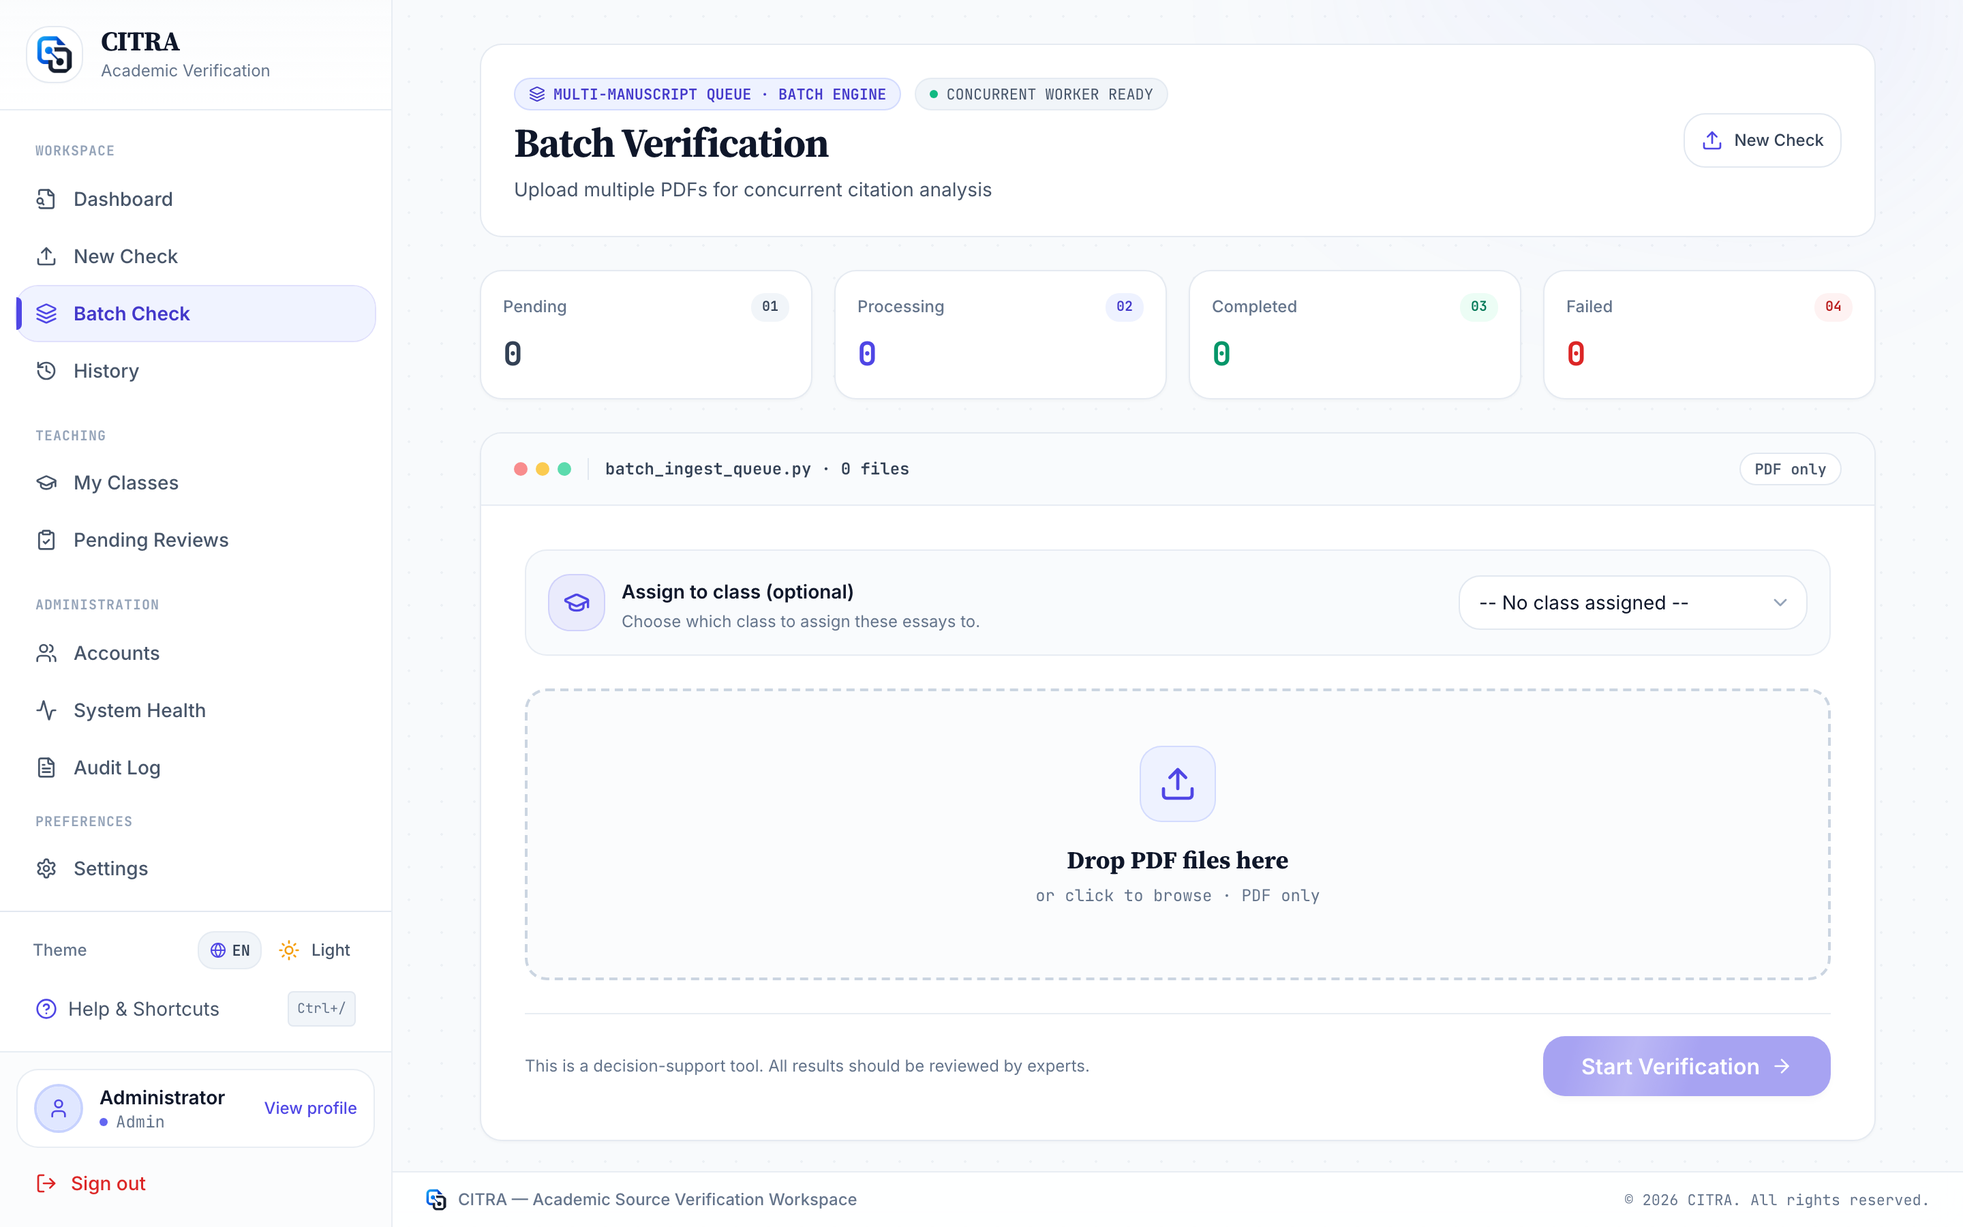
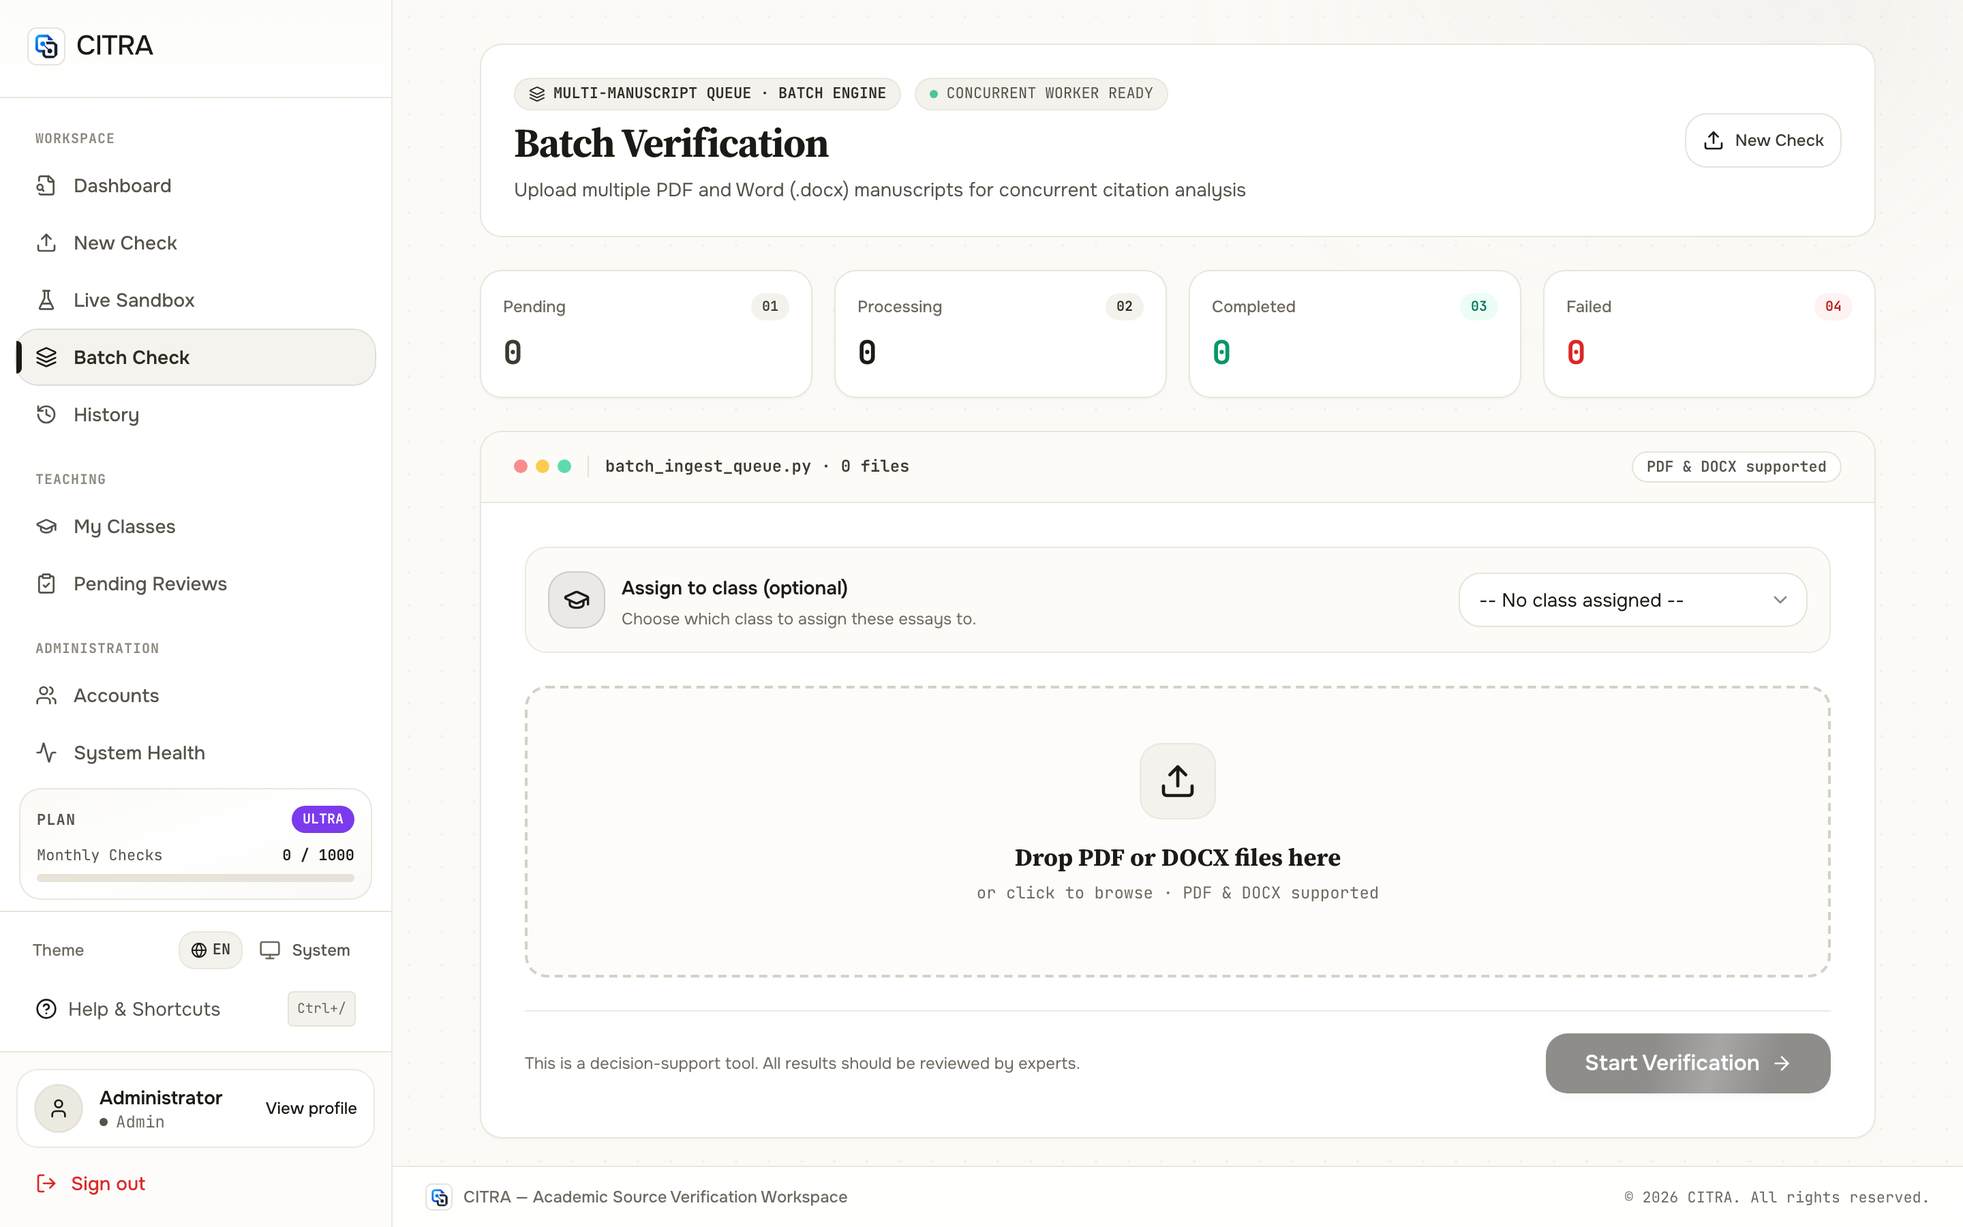
docs(readme,screenshots): update production screenshots to Solva Warm Editorial UI and showcase new feature pages

diff --git a/README.md b/README.md
@@ -59,32 +59,33 @@
 
 Large Language Models (LLMs) frequently hallucinate plausible-sounding references, conflate author lists, or fabricate publication years (`METADATA_ERROR` / `HALLUCINATION`). Meanwhile, traditional similarity checkers (e.g., Turnitin) measure text overlap rather than verifying whether cited references actually exist in canonical scholarly registries or whether in-text citations map cleanly to the bibliography.
 
-### Design Philosophy — *SourceLogic Scholarly (Explainable Precision Minimal)*
-- **Two-Layer Separation of Concerns**: Strictly decouples **Layer 1: In-Text Citation Mapping** (`MATCHED`, `AMBIGUOUS`, `MISSING_IN_BIBLIOGRAPHY`) from **Layer 2: Reference Entry Validation** (`VERIFIED`, `METADATA_ERROR`, `UNVERIFIED_EXTERNAL`, `HALLUCINATION`), eliminating double-counting when a reference is cited multiple times.
-- **No Black-Box Verdicts**: Every reference entry exposes a **5-Stage Neuro-Symbolic Logic Trace** (`Stage 1: Structural Parse` → `Stage 2: Multi-Source Retrieval` → `Stage 3: 8D Feature Vector` → `Stage 4: Symbolic & ML Scorer` → `Stage 5: Calibrated Verdict`), side-by-side canonical vs. cited diffs, and one-click BibTeX/APA fixes.
-- **Three Role-Based Portals**:
-  1. **Researcher / Student Workspace (`/dashboard`, `/verification/report/:id`)**: Upload single or batch PDF/DOCX manuscripts, inspect citation errors in a split-pane IDE, and export corrected bibliographies.
-  2. **Teacher Cohort Classroom (`/teacher/classes`, `/teacher/pending`)**: Manage thesis cohorts via join codes, review flagged submissions, and override contested AI verdicts with human-in-the-loop audit notes.
-  3. **Admin Platform Control (`/admin/system`, `/admin/users`, `/admin/audit-logs`)**: Monitor external API latencies, verdict telemetry distributions, user role assignments, and immutable system audit trails.
+### Design Philosophy — *Solva Warm Editorial & SourceLogic Scholarly*
+- **Warm Editorial Precision**: Engineered around the **Solva Warm Editorial** design system (`#FAF8F3` warm ivory canvas, `#252523` charcoal ink, `#35624D` botanical forest accents, *Sentient* editorial serif display, *Plus Jakarta Sans* UI, and *JetBrains Mono* telemetry) with painterly botanical frames and live count-up metrics.
+- **Two-Layer Separation of Concerns**: Strictly decouples **Layer 1: In-Text Citation Mapping** (`MATCHED`, `AMBIGUOUS`, `MISSING_IN_BIBLIOGRAPHY`, `UNCITED_REFERENCE`) from **Layer 2: Reference Entry Validation** (`VERIFIED`, `METADATA_ERROR`, `RESOURCE`, `SUSPECTED_HALLUCINATION`, `UNRESOLVED`), eliminating double-counting when a reference is cited multiple times.
+- **No Black-Box Verdicts**: Every reference entry exposes a **5-Stage Neuro-Symbolic Logic Trace & Evidence DAG** (`Stage 1: Structural Parse` → `Stage 2: Multi-Source Retrieval` → `Stage 3: 16D Feature Vector` → `Stage 4: 28 Symbolic Rules & ML Scorer` → `Stage 5: Platt-Calibrated Verdict`), side-by-side canonical vs. cited diffs, **1-Click Bibliography Auto-Remediation** (`APA`, `IEEE`, `TDTU`, `.bib`, `.ris`), and **Auto-Healed `.DOCX` manuscript export**.
+- **Three Role-Based Portals + Live Sandbox**:
+  1. **Researcher / Student Workspace (`/dashboard`, `/sandbox`, `/verification/report/:id`)**: Test citations in the **Live Citation Sandbox** (sampling real papers from `128,654` ACL Anthology records or generating synthetic multi-page academic PDFs), upload single or batch PDF/DOCX manuscripts, inspect citation errors in a split-pane IDE, and export auto-repaired bibliographies.
+  2. **Teacher Cohort Classroom (`/teacher/classes`, `/teacher/reviews`)**: Manage thesis cohorts via join codes, detect **Cross-Student Shared AI Hallucinations**, and adjudicate flagged verdicts in the **Pending Reviews** queue with human-in-the-loop audit notes.
+  3. **Admin Platform Control (`/admin/system`, `/admin/users`, `/admin/audit`)**: Monitor external API latencies, verdict telemetry distributions, IAM user role & subscription tier assignments, and immutable system audit trails.
 - **Decision-Support Compliance**: All reports and exports include a mandatory bilingual compliance notice affirming that CITRA is a decision-support tool and final academic evaluation rests with qualified faculty.
 
 ---
 
 ## Visual Demo & UI Walkthrough
 
-> All screenshots below are captured directly from the live running platform (`1440×900 @ 2x Retina`) inspecting real undergraduate and research manuscripts.
+> All 18 screenshots below are captured directly from the live production platform at [**`https://citra.io.vn`**](https://citra.io.vn) (`1440×900 @ 2x Retina`) inspecting real undergraduate theses and research manuscripts.
 
-### 1. Editorial Landing Page — Adaptive Light & Dark Mode
-High-contrast academic typography (*Newsreader* serif display, *Plus Jakarta Sans* UI, and *JetBrains Mono* telemetry) with instant theme switching.
+### 1. Solva Warm Editorial Landing Page — Botanical Hero & 3-Pillar Architecture Bento (`/`)
+Editorial academic typography (*Sentient* serif display, *Plus Jakarta Sans* UI, and *JetBrains Mono* telemetry) paired with botanical painterly frames, live animated verification mockups, and interactive count-up telemetry.
 
-| Light Mode (`SourceLogic Ivory`) | Dark Mode (`SourceLogic Obsidian`) |
+| Editorial Hero & Live Verification Mockup (`/`) | 3-Pillar Floral Architecture Bento (`/#architecture`) |
 | :---: | :---: |
-| ![Landing Light Mode](./docs/screenshots/01-landing-light.png) | ![Landing Dark Mode](./docs/screenshots/02-landing-dark.png) |
+| ![Landing Hero](./docs/screenshots/01-landing-light.png) | ![Architecture Bento](./docs/screenshots/02-landing-dark.png) |
 
 ---
 
-### 2. Verification Workspace & Multi-Manuscript Batch Queue
-Upload individual PDF/DOCX manuscripts with customizable citation styles (Auto-detect, IEEE, APA 7th, Vancouver, Harvard, TDTU) or process entire thesis cohorts in parallel with real-time Server-Sent Events (SSE) progress streaming.
+### 2. Verification Workspace Dashboard & Multi-Manuscript Batch Queue (`/dashboard`, `/batch-upload`)
+Track workspace-wide Citation Integrity Scores (`CIS`), monthly plan quotas, and recent manuscript audits, or upload multiple PDF/DOCX manuscripts for concurrent batch verification with optional classroom assignment.
 
 | Workspace Dashboard (`/dashboard`) | Batch Verification Queue (`/batch-upload`) |
 | :---: | :---: |
@@ -92,8 +93,19 @@ Upload individual PDF/DOCX manuscripts with customizable citation styles (Auto-d
 
 ---
 
-### 3. Citation Debugger IDE — Hallucination Detection & Side-by-Side Metadata Diff
-The split-pane **Reference Inspector** highlights exact discrepancies between the manuscript's bibliography and canonical scholarly records from Crossref, Semantic Scholar, OpenAlex, ArXiv, and ACL Anthology.
+### 3. Live Citation Sandbox & Synthetic Academic PDF Generator (`/sandbox`)
+Sample `10–20` authentic papers directly from the local **`128,654`-paper ACL Anthology FTS5 database**, inject controlled Layer-1/Layer-2 defense error suites (year drift, author swap, fabricated hallucination, orphan in-text, uncited reference), and synthesize a complete academic PDF manuscript on the fly.
+
+<div align="center">
+
+![Live Citation Sandbox & Synthetic PDF Generator](./docs/screenshots/13-live-sandbox.png)
+
+</div>
+
+---
+
+### 4. Citation Debugger IDE — Hallucination Detection & Side-by-Side Metadata Diff (`/verification/report/:id`)
+The split-pane **Reference Inspector** highlights exact discrepancies between the manuscript's bibliography and canonical scholarly records across 15+ databases (Local ACL FTS5, Crossref, OpenAlex, DataCite, DOAJ, OpenAIRE/HAL, NCBI/bioRxiv, DBLP, arXiv, OpenLibrary, Europe PMC, Hugging Face, IETF RFC, Global DOI RA).
 
 | Hallucinated / Fabricated Reference (`HALLUCINATION`) | Venue / Year / Author Mismatch (`METADATA_ERROR`) |
 | :---: | :---: |
@@ -101,26 +113,48 @@ The split-pane **Reference Inspector** highlights exact discrepancies between th
 
 ---
 
-### 4. 5-Stage Neuro-Symbolic Logic Trace & Inline Document Context
-Inspect every intermediate signal in the 5-stage pipeline (`S_title`, `S_author`, `S_year`, `S_venue`, `S_doi`, `HybridMLScorer` probability, and symbolic rule overrides) alongside the exact paragraph context where each citation appears in the manuscript.
+### 5. 1-Click Bibliography Auto-Remediation Studio & Two-Layer Citation Network Explorer
+Automatically repair mismatched years, titles, authors, venues, and DOIs into standardized **APA 7th**, **IEEE Numeric**, **Harvard / TDTU**, **BibTeX (`.bib`)**, **RIS (`.ris`)**, or download an **Auto-Healed `.DOCX` manuscript**, and explore the **Two-Layer Citation & Source Network Graph (DAG)**.
 
-| 5-Stage Neuro-Symbolic Logic Trace (`/trace`) | Split-Pane Document Context Stream (`/document`) |
+| 1-Click Bibliography Auto-Remediation Studio (`Auto-Fix & BibTeX`) | Two-Layer Citation & Source Network Explorer (`Citation Graph`) |
+| :---: | :---: |
+| ![1-Click Auto-Remediation Studio](./docs/screenshots/17-auto-remediation-bibtex.png) | ![Citation & Evidence Network Explorer](./docs/screenshots/18-citation-evidence-graph.png) |
+
+---
+
+### 6. 5-Stage Neuro-Symbolic Logic Trace & Split-Pane Document Context Stream (`/trace`, `/document`)
+Inspect every intermediate signal in the 5-stage pipeline (`Layer 1 GROBID TEI`, `Federated Retrieval`, `Neural Similarity & Link Check`, `28 Symbolic Rules`, and `Platt-Calibrated Verdict`) alongside the exact manuscript paragraph context and citation intent (`methodology`, `result_comparison`, `background`).
+
+| 5-Stage Neuro-Symbolic Logic Trace (`/verification/report/:id/trace`) | Split-Pane Document Context Stream (`/verification/report/:id/document`) |
 | :---: | :---: |
 | ![Neuro-Symbolic Logic Trace](./docs/screenshots/07-logic-trace.png) | ![Document Context Inspector](./docs/screenshots/09-document-inspector.png) |
 
 ---
 
-### 5. Bidirectional Consistency Matrix & Teacher Cohort Classroom
-Detect orphaned bibliography entries (`uncited_references`) and dangling in-text citations (`MISSING_IN_BIBLIOGRAPHY`), or manage entire thesis defense classes from the instructor portal.
+### 7. Diagnostic Issues Triage Hub & Bidirectional Consistency Matrix (`/issues`, `/consistency`)
+Triage all flagged anomalies by severity (`Critical — Suspected Hallucination`, `Warning — Metadata Drift`, `Info`) and verify bipartite graph consistency between in-text markers and bibliography entries (`Correctly Linked`, `Citations Without Reference`, `Uncited References`).
 
-| Citation ↔ Reference Consistency (`/consistency`) | Teacher Cohort Classroom (`/teacher/classes/1`) |
+| Actionable Diagnostic Issues Hub (`/verification/report/:id/issues`) | Bidirectional Consistency Matrix (`/verification/report/:id/consistency`) |
 | :---: | :---: |
-| ![Consistency Check](./docs/screenshots/08-consistency-check.png) | ![Teacher Classroom](./docs/screenshots/10-teacher-classroom.png) |
+| ![Diagnostic Issues Hub](./docs/screenshots/12-diagnostic-issues.png) | ![Consistency Check](./docs/screenshots/08-consistency-check.png) |
 
 ---
 
-### 6. Admin Platform Telemetry & Verdict Distribution
-Real-time health checks across GROBID, SQLite FTS5, and external scholarly APIs alongside system-wide verdict distributions and audit trails.
+### 8. Teacher Cohort Classroom, Shared AI Hallucination Radar & Faculty Adjudication Queue
+Manage entire thesis defense cohorts via join codes (`CITRA-1001`), monitor cohort CIS distributions and 5-year citation recency, detect **Shared AI Hallucinations across multiple student submissions**, and adjudicate contested verdicts in the **Pending Reviews** queue.
+
+| Cohort Analytics & Shared Hallucination Radar (`/teacher/classes/1`) | Faculty Adjudication & Pending Reviews Queue (`/teacher/reviews`) |
+| :---: | :---: |
+| ![Teacher Classroom](./docs/screenshots/10-teacher-classroom.png) | ![Teacher Pending Reviews](./docs/screenshots/14-teacher-pending-reviews.png) |
+
+---
+
+### 9. Academic Subscription Plans, Admin Telemetry & IAM Account Directory (`/pricing`, `/admin/*`)
+Flexible academic plans (**Basic Free**, **Pro Scholar**, **Ultra Lab/Faculty**) powered by Stripe checkout, paired with real-time platform telemetry (`/admin/system`) and Role-Based Access Control (`RBAC`) user administration (`/admin/users`).
+
+| Academic Pricing & Subscription Plans (`/pricing`) | IAM Identity Directory & Role Management (`/admin/users`) |
+| :---: | :---: |
+| ![Pricing & Subscription Plans](./docs/screenshots/15-pricing-subscription.png) | ![Admin Account Management](./docs/screenshots/16-admin-accounts-audit.png) |
 
 <div align="center">
 
@@ -134,15 +168,16 @@ Real-time health checks across GROBID, SQLite FTS5, and external scholarly APIs 
 
 | Domain | Capability | Implementation Details |
 | :--- | :--- | :--- |
-| **Document Parsing** | **Multi-Modal PDF & DOCX Extraction** | **GROBID 0.8.0 TEI-XML** deep structural parsing with automatic **PyMuPDF (`fitz`)** + `python-docx` fallback; supports Vietnamese & English section headers (`Tài liệu tham khảo`, `References`, `Bibliography`). |
-| **Citation Formats** | **11 Citation Styles + Vietnamese Legal Docs** | Auto-detects **IEEE** (`[1]`, `[1]-[3]`), **APA** (`(Smith et al., 2020)`), **Vancouver**, **Harvard**, **MLA**, **Chicago**, **ACM**, **Nature**, **Springer**, **Footnotes**, and **Vietnamese Legal Documents** (`Luật số`, `Nghị định`, `Thông tư` per TDTU standards). |
-| **Smart Retrieval** | **Domain-Aware Federated Search, Retraction Watch & Active Link Validation** | Local **ACL Anthology SQLite FTS5** (`128,626` papers with `81,973` abstracts) + **Crossref**, **OpenAlex**, **DataCite** (Zenodo/Figshare/OSF), **Global DOI RA & CSL-JSON** (JaLC/CNKI/mEDRA/KISTI), **DOAJ**, **OpenAIRE Graph & HAL**, **NCBI Entrez & bioRxiv/medRxiv**, **DBLP**, **arXiv**, **OpenLibrary**, **Europe PMC**, **Hugging Face Hub**, **IETF Datatracker RFC & PyPI**, and **SerpApi Google Scholar** fallback, paired with **Retraction Watch Detection** (`is_retracted`) and active **HTTP + Wayback Machine Link Validation** (`HTTP 200 OK`, `403 Restricted/Paywall`, `Archived Alive`, `404 Dead Link`, `Fake Domain`). |
+| **Document Parsing** | **Multi-Modal PDF & DOCX Extraction** | **GROBID 0.8.0 TEI-XML** deep structural parsing with automatic **PyMuPDF (`fitz`)** + `python-docx` fallback; 2-column reading-order reconstruction; supports Vietnamese & English section headers (`Tài liệu tham khảo`, `References`, `Bibliography`). |
+| **Citation Formats** | **12 Citation Styles + Vietnamese Legal Docs** | Auto-detects **IEEE** (`[1]`, `[1]-[3]`), **APA 7th** (`(Smith et al., 2020)`), **Vancouver**, **Harvard**, **MLA 9th**, **Chicago**, **ACM**, **Nature**, **ACS**, **AMA**, **CSE**, and **Vietnamese Legal Documents** (`Luật số`, `Nghị định`, `Thông tư`, `Bản án` per TDTU standards). |
+| **Smart Retrieval** | **15+ Federated Scholarly Indexes, Retraction Watch & Active Link Validation** | Local **ACL Anthology SQLite FTS5** (`128,654` papers with `81,973` abstracts) + **Crossref**, **OpenAlex**, **DataCite** (Zenodo/Figshare/OSF), **Global DOI RA & CSL-JSON** (JaLC/CNKI/mEDRA/KISTI), **DOAJ**, **OpenAIRE Graph & HAL**, **NCBI Entrez & bioRxiv/medRxiv**, **DBLP**, **arXiv**, **OpenLibrary**, **Europe PMC**, **Hugging Face Hub**, **IETF Datatracker RFC & PyPI**, and **SerpApi Google Scholar** fallback, paired with **Retraction Watch Detection** (`is_retracted`) and active **HTTP + Wayback Machine Link Validation** (`HTTP 200 OK`, `403 Restricted/Paywall`, `Archived Alive`, `404 Dead Link`, `Fake Domain`). |
 | **Deep Neural Layer** | **Sentence-Level Evidence, Intent, Stance & Cross-Lingual Bridge** | **Sentence-BERT (`all-MiniLM-L6-v2`)** focal-sentence vs. abstract sentence-level max-pooling (`best_evidence_sentence`), **Citation Intent Classification** (`background`, `methodology`, `result_comparison`), **Claim Stance & Polarity Verification** (`supported`, `partially_supported`, `contradiction_risk`), **Vietnamese ↔ English Semantic Bridging**, **Multi-Occurrence Aggregation**, and **Implicit Body Passage Discovery** for uncited references. |
 | **Neuro-Symbolic Verification** | **16D Feature Vector + 28 Symbolic Rules + Platt Calibration** | Combines **Sentence-BERT** neural evidence & title alignment, **RapidFuzz**, **AuthorMatcher**, and **VenueNormalizer** with **28 deterministic Symbolic Rules** (`R-RETRACTED-PAPER`, `R-WAYBACK-ARCHIVED`, `R-GLOBAL-DOI-RA-VERIFIED`, `R-HF-VERIFIED`, `R-RFC-VERIFIED`, etc.) and a **Multinomial Logistic Regression + Logit-Space Platt Scaling** scorer trained on **120,000 paper-disjoint samples** (`Macro-F1 = 0.9979` ML / `0.9764` Neuro-Symbolic, `ECE = 0.0433`, `Brier = 0.0095`). |
-| **Scoring Engine** | **5-Component Citation Integrity Score (`CIS`)** | Weighted composite score (`0–100`) combining Reference Validity (`35%`), Citation Mapping (`25%`), Metadata Accuracy (`15%`), Format Compliance (`15%`), and Bibliography Hygiene (`10%`) with critical failure caps. |
-| **Interactive IDE** | **4 Specialized Inspection Views** | **Bibliography Table** (side-by-side diff), **Logic Trace** (5-stage Neuro-Symbolic pipeline + Deep Neural Evidence Panel), **Consistency Matrix** (dangling & orphan detection), and **Document Context** (inline sentence highlights + SBERT evidence match popup). |
-| **Role-Based Portals** | **User, Teacher, and Admin Workflows** | JWT authentication, **Batch SSE Upload**, **Classroom Management** (`join_code`, cohort analytics), **Teacher Verdict Overrides**, and **Admin System Telemetry & Audit Logs**. |
-| **Export & Reporting** | **Multi-Format Compliance Exports** | One-click export of full verification reports to **JSON**, **CSV**, **PDF**, and **DOCX** (`src/integrity_checker/reporting/exporter.py`). |
+| **Live Sandbox** | **Interactive ACL Sandbox & Synthetic PDF Generator** | Sample `10–20` real papers from the local `128,654`-paper ACL Anthology database (`/sandbox`), inject controlled Layer-1/Layer-2 anomalies (`Sửa sai Năm`, `Sửa sai Tác giả`, `Bịa nguồn giả`, `Uncited Ref`, `Orphan In-text`), verify instantaneously, or synthesize a complete multi-page academic PDF manuscript. |
+| **Auto-Remediation** | **1-Click Bibliography Auto-Fix & Auto-Healed `.DOCX`** | Automatically repairs mismatched publication years, titles, author lists, venues, and DOIs using canonical records, outputting standardized **APA 7th**, **IEEE**, **Harvard/TDTU**, **BibTeX (`.bib`)**, **RIS (`.ris`)**, and one-click **Auto-Healed `.DOCX` manuscripts with change logs**. |
+| **Interactive IDE** | **6 Specialized Inspection Views** | **Split-Pane Reference Debugger** (side-by-side diff), **Two-Layer Citation & Source Network Graph (DAG)**, **1-Click Auto-Remediation Studio**, **5-Stage Logic Trace**, **Diagnostic Issues Hub**, **Bipartite Consistency Matrix**, and **Document Context Stream + Inline PDF Page Preview**. |
+| **Role-Based Portals & Billing** | **Student, Teacher, Admin & Stripe Tiers** | JWT + Google OAuth authentication, **Batch Upload**, **Teacher Cohort Analytics & Cross-Student Shared Hallucination Radar**, **Faculty Pending Review Overrides**, **Stripe Subscription Plans (`Basic`, `Pro`, `Ultra`)**, and **Admin System Telemetry & Audit Logs**. |
+| **Export & Reporting** | **Multi-Format Compliance Exports** | One-click export of full verification reports to **JSON**, **CSV**, **PDF**, **DOCX**, and **Auto-Healed `.DOCX`** (`src/integrity_checker/reporting/exporter.py`). |
 
 ---
 
